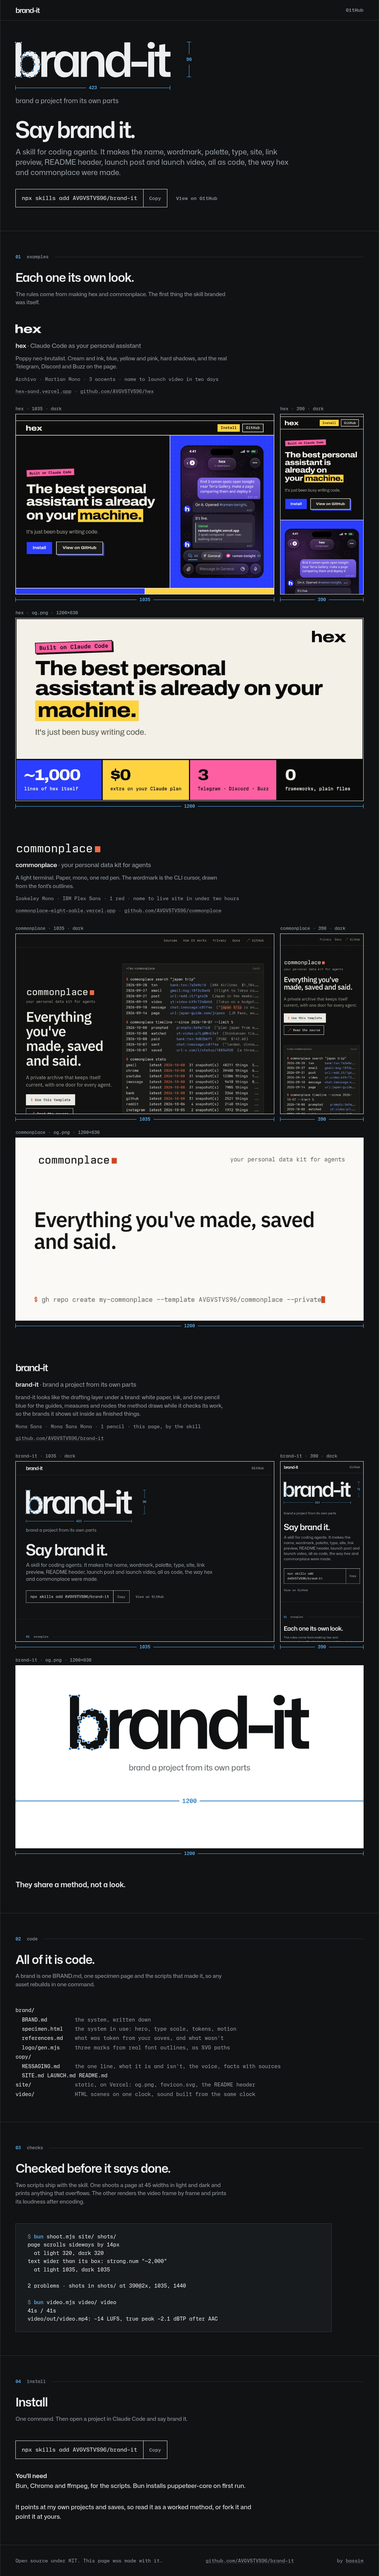
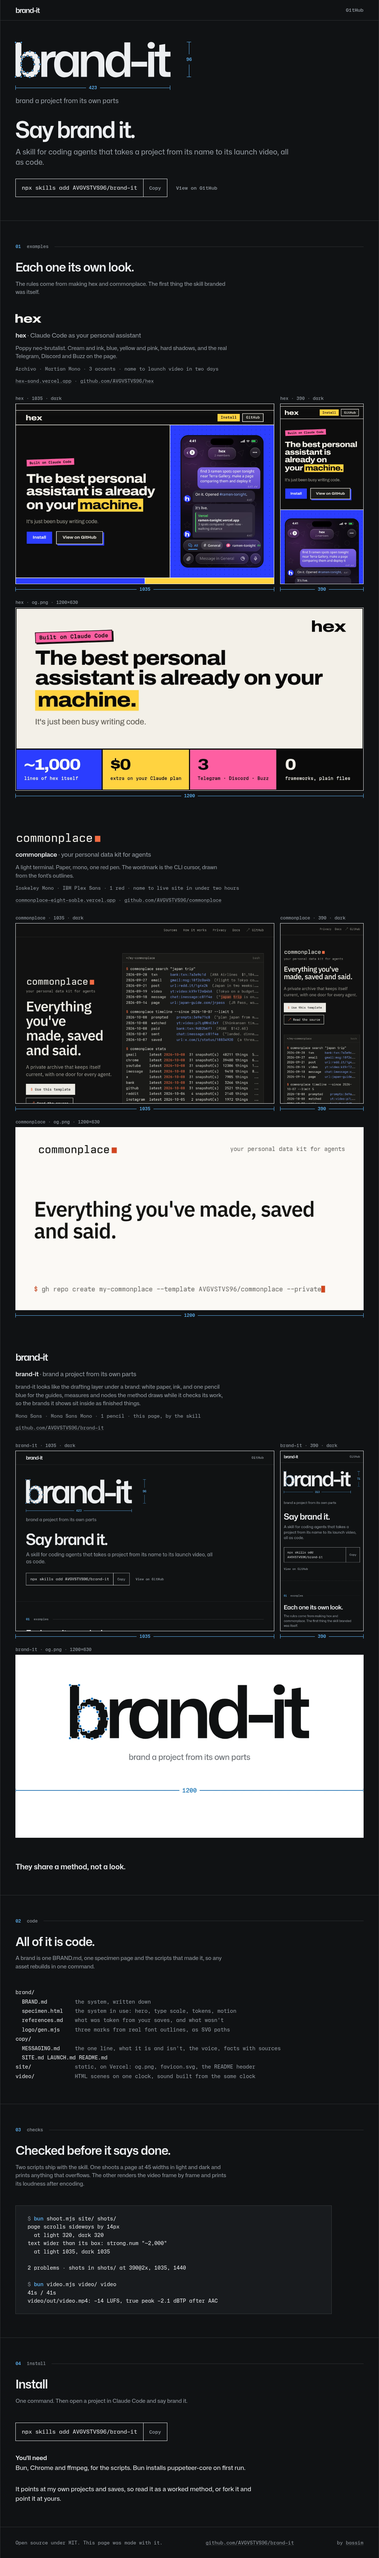
Site: the hero sub line in one sentence, brand-it's OG card keeps only its own 1200, fresh self shots

diff --git a/site/index.html b/site/index.html
@@ -58,7 +58,7 @@
   </figure>
   <p class="tagline">brand a project from its own parts</p>
   <h1 id="hero-title">Say brand it.</h1>
-  <p class="lede">A skill for coding agents. It makes the name, wordmark, palette, type, site, link preview, README header, launch post and launch video, all as code, the way hex and commonplace were made.</p>
+  <p class="lede">A skill for coding agents that takes a project from its name to its launch video, all as code.</p>
   <div class="install">
     <div class="cmd"><pre>npx skills add AVGVSTVS96/brand-it</pre><button type="button" data-copy="npx skills add AVGVSTVS96/brand-it">Copy</button></div>
     <a href="https://github.com/AVGVSTVS96/brand-it">View on GitHub</a>
@@ -148,7 +148,6 @@
         <figure class="framed span">
           <figcaption class="label">brand-it · og.png · 1200×630</figcaption>
           <div class="frame"><img src="/examples/brand-it-og.webp" width="1200" height="630" alt="this page's link preview image"></div>
-          <div class="dim h"><span>1200</span></div>
         </figure>
         <template id="video">
           <figure class="framed span">
